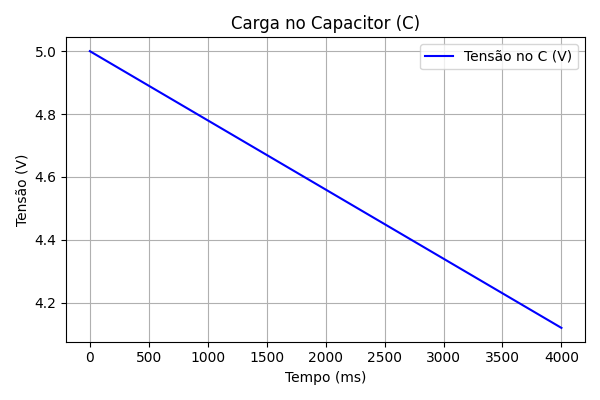
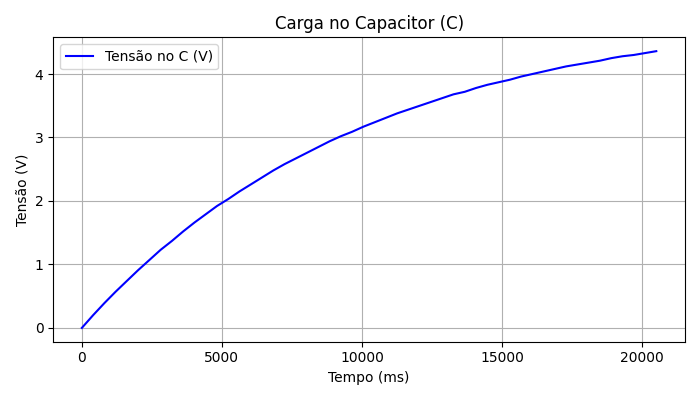
atualização dos graficos

diff --git a/codigo_graficos.py b/codigo_graficos.py
@@ -1,47 +1,101 @@
+
 import matplotlib.pyplot as plt
 import numpy as np
 
-# SIMULAÇÃO DE DADOS (substitua pelos valores do Monitor Serial)
+# Dados reais (tempo, R, C)
+dados = np.array([
+    [0, 5.00, 0.00],
+    [401, 4.80, 0.20],
+    [803, 4.61, 0.39],
+    [1205, 4.43, 0.57],
+    [1607, 4.26, 0.74],
+    [2010, 4.09, 0.91],
+    [2412, 3.93, 1.07],
+    [2813, 3.77, 1.23],
+    [3216, 3.63, 1.37],
+    [3618, 3.48, 1.52],
+    [4021, 3.34, 1.66],
+    [4423, 3.21, 1.79],
+    [4825, 3.08, 1.92],
+    [5227, 2.97, 2.03],
+    [5629, 2.85, 2.15],
+    [6032, 2.74, 2.26],
+    [6434, 2.63, 2.37],
+    [6836, 2.52, 2.48],
+    [7238, 2.42, 2.58],
+    [7641, 2.33, 2.67],
+    [8043, 2.24, 2.76],
+    [8445, 2.15, 2.85],
+    [8847, 2.06, 2.94],
+    [9249, 1.98, 3.02],
+    [9652, 1.91, 3.09],
+    [10054, 1.83, 3.17],
+    [10457, 1.76, 3.24],
+    [10859, 1.69, 3.31],
+    [11260, 1.62, 3.38],
+    [11663, 1.56, 3.44],
+    [12065, 1.50, 3.50],
+    [12468, 1.44, 3.56],
+    [12870, 1.38, 3.62],
+    [13273, 1.32, 3.68],
+    [13675, 1.28, 3.72],
+    [14077, 1.22, 3.78],
+    [14480, 1.17, 3.83],
+    [14882, 1.13, 3.87],
+    [15285, 1.09, 3.91],
+    [15686, 1.04, 3.96],
+    [16089, 1.00, 4.00],
+    [16491, 0.96, 4.04],
+    [16893, 0.92, 4.08],
+    [17296, 0.88, 4.12],
+    [17698, 0.85, 4.15],
+    [18101, 0.82, 4.18],
+    [18503, 0.79, 4.21],
+    [18906, 0.75, 4.25],
+    [19308, 0.72, 4.28],
+    [19709, 0.70, 4.30],
+    [20112, 0.67, 4.33],
+    [20514, 0.64, 4.36],
+])
 
-# Tempo em milissegundos
-tempo = np.linspace(0, 4000, 40)
+# Separar colunas
+tempo = dados[:, 0]
+tensao_R = dados[:, 1]
+tensao_C = dados[:, 2]
 
-# Simulando a CARGA no capacitor (tensão decrescendo)
-tensao_C = 5 - 0.00022 * tempo  # exemplo de decaimento linear
-
-# Simulando a DESCARGA no resistor (tensão crescendo)
-tensao_R = 0.00022 * tempo      # exemplo de aumento linear
-
-# GRÁFICO 1: Carga no Capacitor (C)
-plt.figure(figsize=(6, 4))
-plt.plot(tempo, tensao_C, color='blue', label='Tensão no C (V)')
+# Gráfico 1: Carga no Capacitor (C)
+plt.figure(figsize=(7,4))
+plt.plot(tempo, tensao_C, 'b-', label='Tensão no C (V)')
 plt.title('Carga no Capacitor (C)')
 plt.xlabel('Tempo (ms)')
 plt.ylabel('Tensão (V)')
 plt.legend()
 plt.grid(True)
 plt.tight_layout()
+plt.savefig('grafico_carga_capacitor.png')
 plt.show()
 
-# GRÁFICO 2: Descarga no Resistor (R)
-plt.figure(figsize=(6, 4))
-plt.plot(tempo, tensao_R, color='red', label='Tensão no R (V)')
+# Gráfico 2: Descarga no Resistor (R)
+plt.figure(figsize=(7,4))
+plt.plot(tempo, tensao_R, 'r-', label='Tensão no R (V)')
 plt.title('Descarga no Resistor (R)')
 plt.xlabel('Tempo (ms)')
 plt.ylabel('Tensão (V)')
 plt.legend()
 plt.grid(True)
 plt.tight_layout()
+plt.savefig('grafico_descarga_resistor.png')
 plt.show()
 
-# GRÁFICO 3: Comparação entre C e R
-plt.figure(figsize=(6, 4))
-plt.plot(tempo, tensao_C, color='blue', label='Tensão no C (V)')
-plt.plot(tempo, tensao_R, color='red', label='Tensão no R (V)')
+# Gráfico 3: Comparação
+plt.figure(figsize=(7,4))
+plt.plot(tempo, tensao_C, 'b-', label='Tensão no C (V)')
+plt.plot(tempo, tensao_R, 'r-', label='Tensão no R (V)')
 plt.title('Comparação: Carga no C e Descarga no R')
 plt.xlabel('Tempo (ms)')
 plt.ylabel('Tensão (V)')
 plt.legend()
 plt.grid(True)
 plt.tight_layout()
+plt.savefig('grafico_comparacao.png')
 plt.show()
